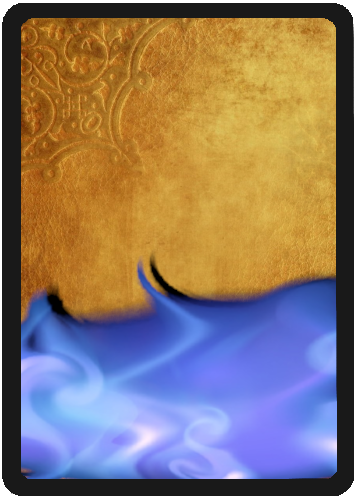
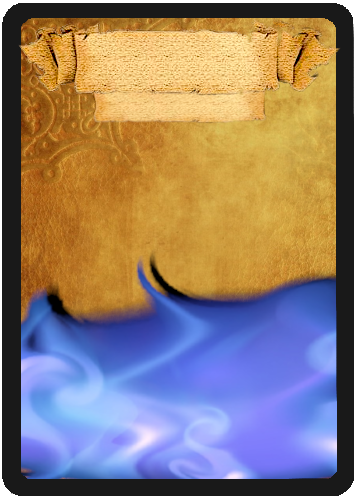
changed to taller layout

Changed region(s): [[0.0618, 0.0302, 0.9579, 0.2716]]

diff --git a/src/config/constants.py b/src/config/constants.py
@@ -239,41 +239,45 @@ class _ItemConstants:
 class _MaterialConstants:
     def __init__(self) -> None:
         sY = _SpellConstants.SMALLS_Y_OFFSET
-        self.SPOKEN: LayoutElement = LayoutElement(150, 380 + sY, 25, 25)
-        self.MATERIAL: LayoutElement = LayoutElement(190, 366 + sY, 50, 50)
-        self.GESTURAL: LayoutElement = LayoutElement(220, 380 + sY, 25, 25)
-        self.NAME: LayoutElement = LayoutElement(185, 400 + sY, 200, 18)
-        self.COST: LayoutElement = LayoutElement(186, 370 + sY, 50, 20)
+        lY = _SpellConstants.LOWER_Y_OFFSET
+        self.SPOKEN: LayoutElement = LayoutElement(150, 380 +lY+ sY, 25, 25)
+        self.MATERIAL: LayoutElement = LayoutElement(190, 366 +lY+ sY, 50, 50)
+        self.GESTURAL: LayoutElement = LayoutElement(220, 380 +lY+ sY, 25, 25)
+        self.NAME: LayoutElement = LayoutElement(185, 410 +lY+ sY, 200, 35)
+        self.COST: LayoutElement = LayoutElement(186, 370 +lY+ sY, 50, 20)
 
 
 class _SpellConstants:
-    SMALLS_Y_OFFSET: int = 60
+    SMALLS_Y_OFFSET: int = 65
+    LOWER_Y_OFFSET: int = -35
     MID_Y_OFFSET: int = -15
     MID_X_OFFSET: int = 25
     def __init__(self) -> None:
         sY = _SpellConstants.SMALLS_Y_OFFSET
         mY = _SpellConstants.MID_Y_OFFSET
+        mX = _SpellConstants.MID_X_OFFSET
+        lY = _SpellConstants.LOWER_Y_OFFSET
         self.TITLE: LayoutElement = LayoutElement(200, 55, 135, 55)
         self.LEVEL: LayoutElement = LayoutElement(109, 61, 56, 56)
         self.CATEGORY: LayoutElement = LayoutElement(180, 104, 153, 26)
-        self.IMAGE: LayoutElement = LayoutElement(177, 240, 310, 190)
-        self.DURATION: LayoutElement = LayoutElement(60, 430, 36, 36)
-        self.DURATION_TEXT: LayoutElement = LayoutElement(60, 460, 36, 26)
-        self.COOLDOWN: LayoutElement = LayoutElement(105, 395 + mY, 36, 36)
-        self.COOLDOWN_TEXT: LayoutElement = LayoutElement(105, 425 + mY, 36, 26)
-        self.DAMAGE: LayoutElement = LayoutElement(255, 395 + mY, 36, 36)
-        self.DAMAGE_TEXT: LayoutElement = LayoutElement(255, 425 + mY, 36, 26)
-        self.RANGE: LayoutElement = LayoutElement(300, 430, 36, 36)
-        self.RANGE_TEXT: LayoutElement = LayoutElement(300, 460, 36, 26)
+        self.IMAGE: LayoutElement = LayoutElement(177, 200, 310, 150)
+        self.DURATION: LayoutElement = LayoutElement(60, 430+lY, 36, 36)
+        self.DURATION_TEXT: LayoutElement = LayoutElement(60, 460+lY, 36, 26)
+        self.COOLDOWN: LayoutElement = LayoutElement(105, 395 +lY+ mY, 36, 36)
+        self.COOLDOWN_TEXT: LayoutElement = LayoutElement(105, 425 + lY+ mY, 36, 26)
+        self.DAMAGE: LayoutElement = LayoutElement(255, 395 + lY+ mY, 36, 36)
+        self.DAMAGE_TEXT: LayoutElement = LayoutElement(255, 425 + lY+ mY, 36, 26)
+        self.RANGE: LayoutElement = LayoutElement(300, 430+lY, 36, 36)
+        self.RANGE_TEXT: LayoutElement = LayoutElement(300, 460+lY, 36, 26)
         self.MATERIAL: _MaterialConstants = _MaterialConstants()
-        self.CONCENTRATION: LayoutElement = LayoutElement(150, 355 + sY, 25, 25)
-        self.CAST_TIME: LayoutElement = LayoutElement(185+self.MID_X_OFFSET, 385, 40, 25)
-        self.RITUAL: LayoutElement = LayoutElement(220, 355 + sY, 25, 25)
-        self.SAVING_THROW: LayoutElement = LayoutElement(255, 350, 40, 18)
-        self.SUB_RANGE: LayoutElement = LayoutElement(185-self.MID_X_OFFSET, 385, 50, 20)
-        self.TARGET: LayoutElement = LayoutElement(185, 360, 40, 40)
+        self.CONCENTRATION: LayoutElement = LayoutElement(150, 355+lY+ sY, 25, 25)
+        self.CAST_TIME: LayoutElement = LayoutElement(185+mX, 385+lY, 40, 25)
+        self.RITUAL: LayoutElement = LayoutElement(220, 355 + lY+ sY, 25, 25)
+        self.SAVING_THROW: LayoutElement = LayoutElement(255, 350+lY, 40, 18)
+        self.SUB_RANGE: LayoutElement = LayoutElement(185-mX, 385+lY, 50, 20)
+        self.TARGET: LayoutElement = LayoutElement(185, 360+lY, 40, 40)
         self.OVERLEVEL: LayoutElement = LayoutElement(
-            320, 275, 30, 190
+            320, 275+lY, 30, 190
         )  # for later use
 
 
